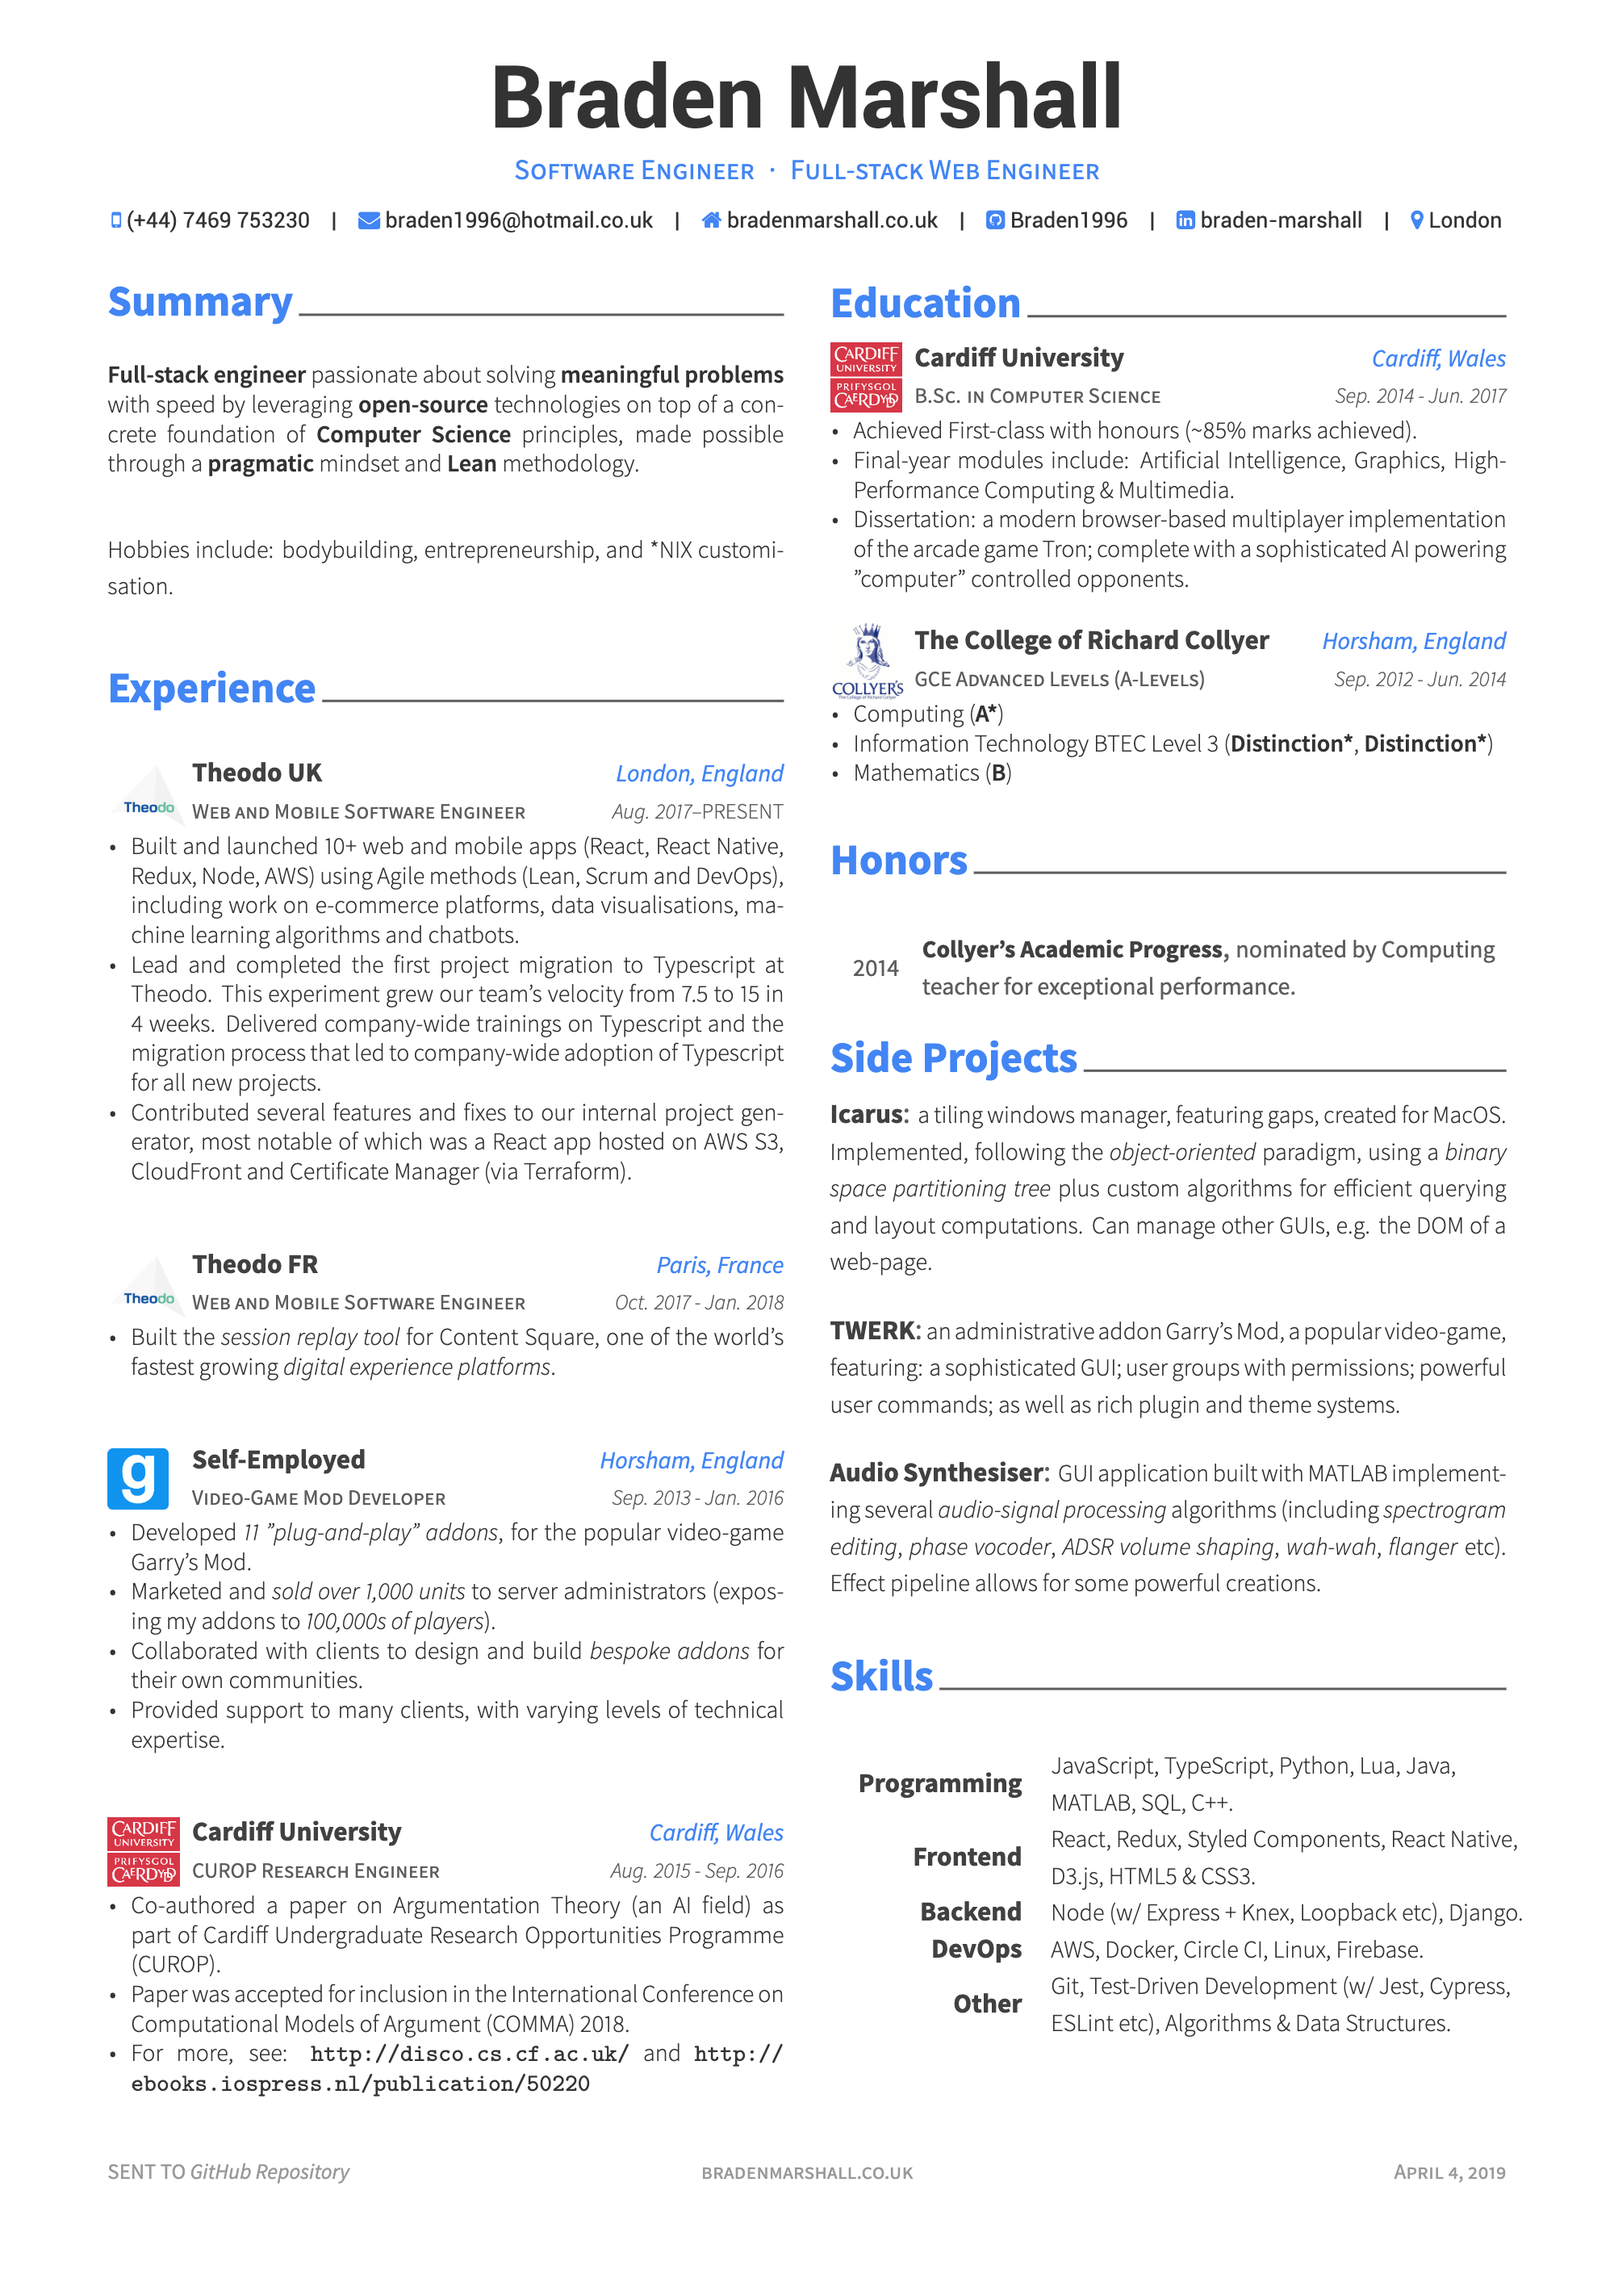
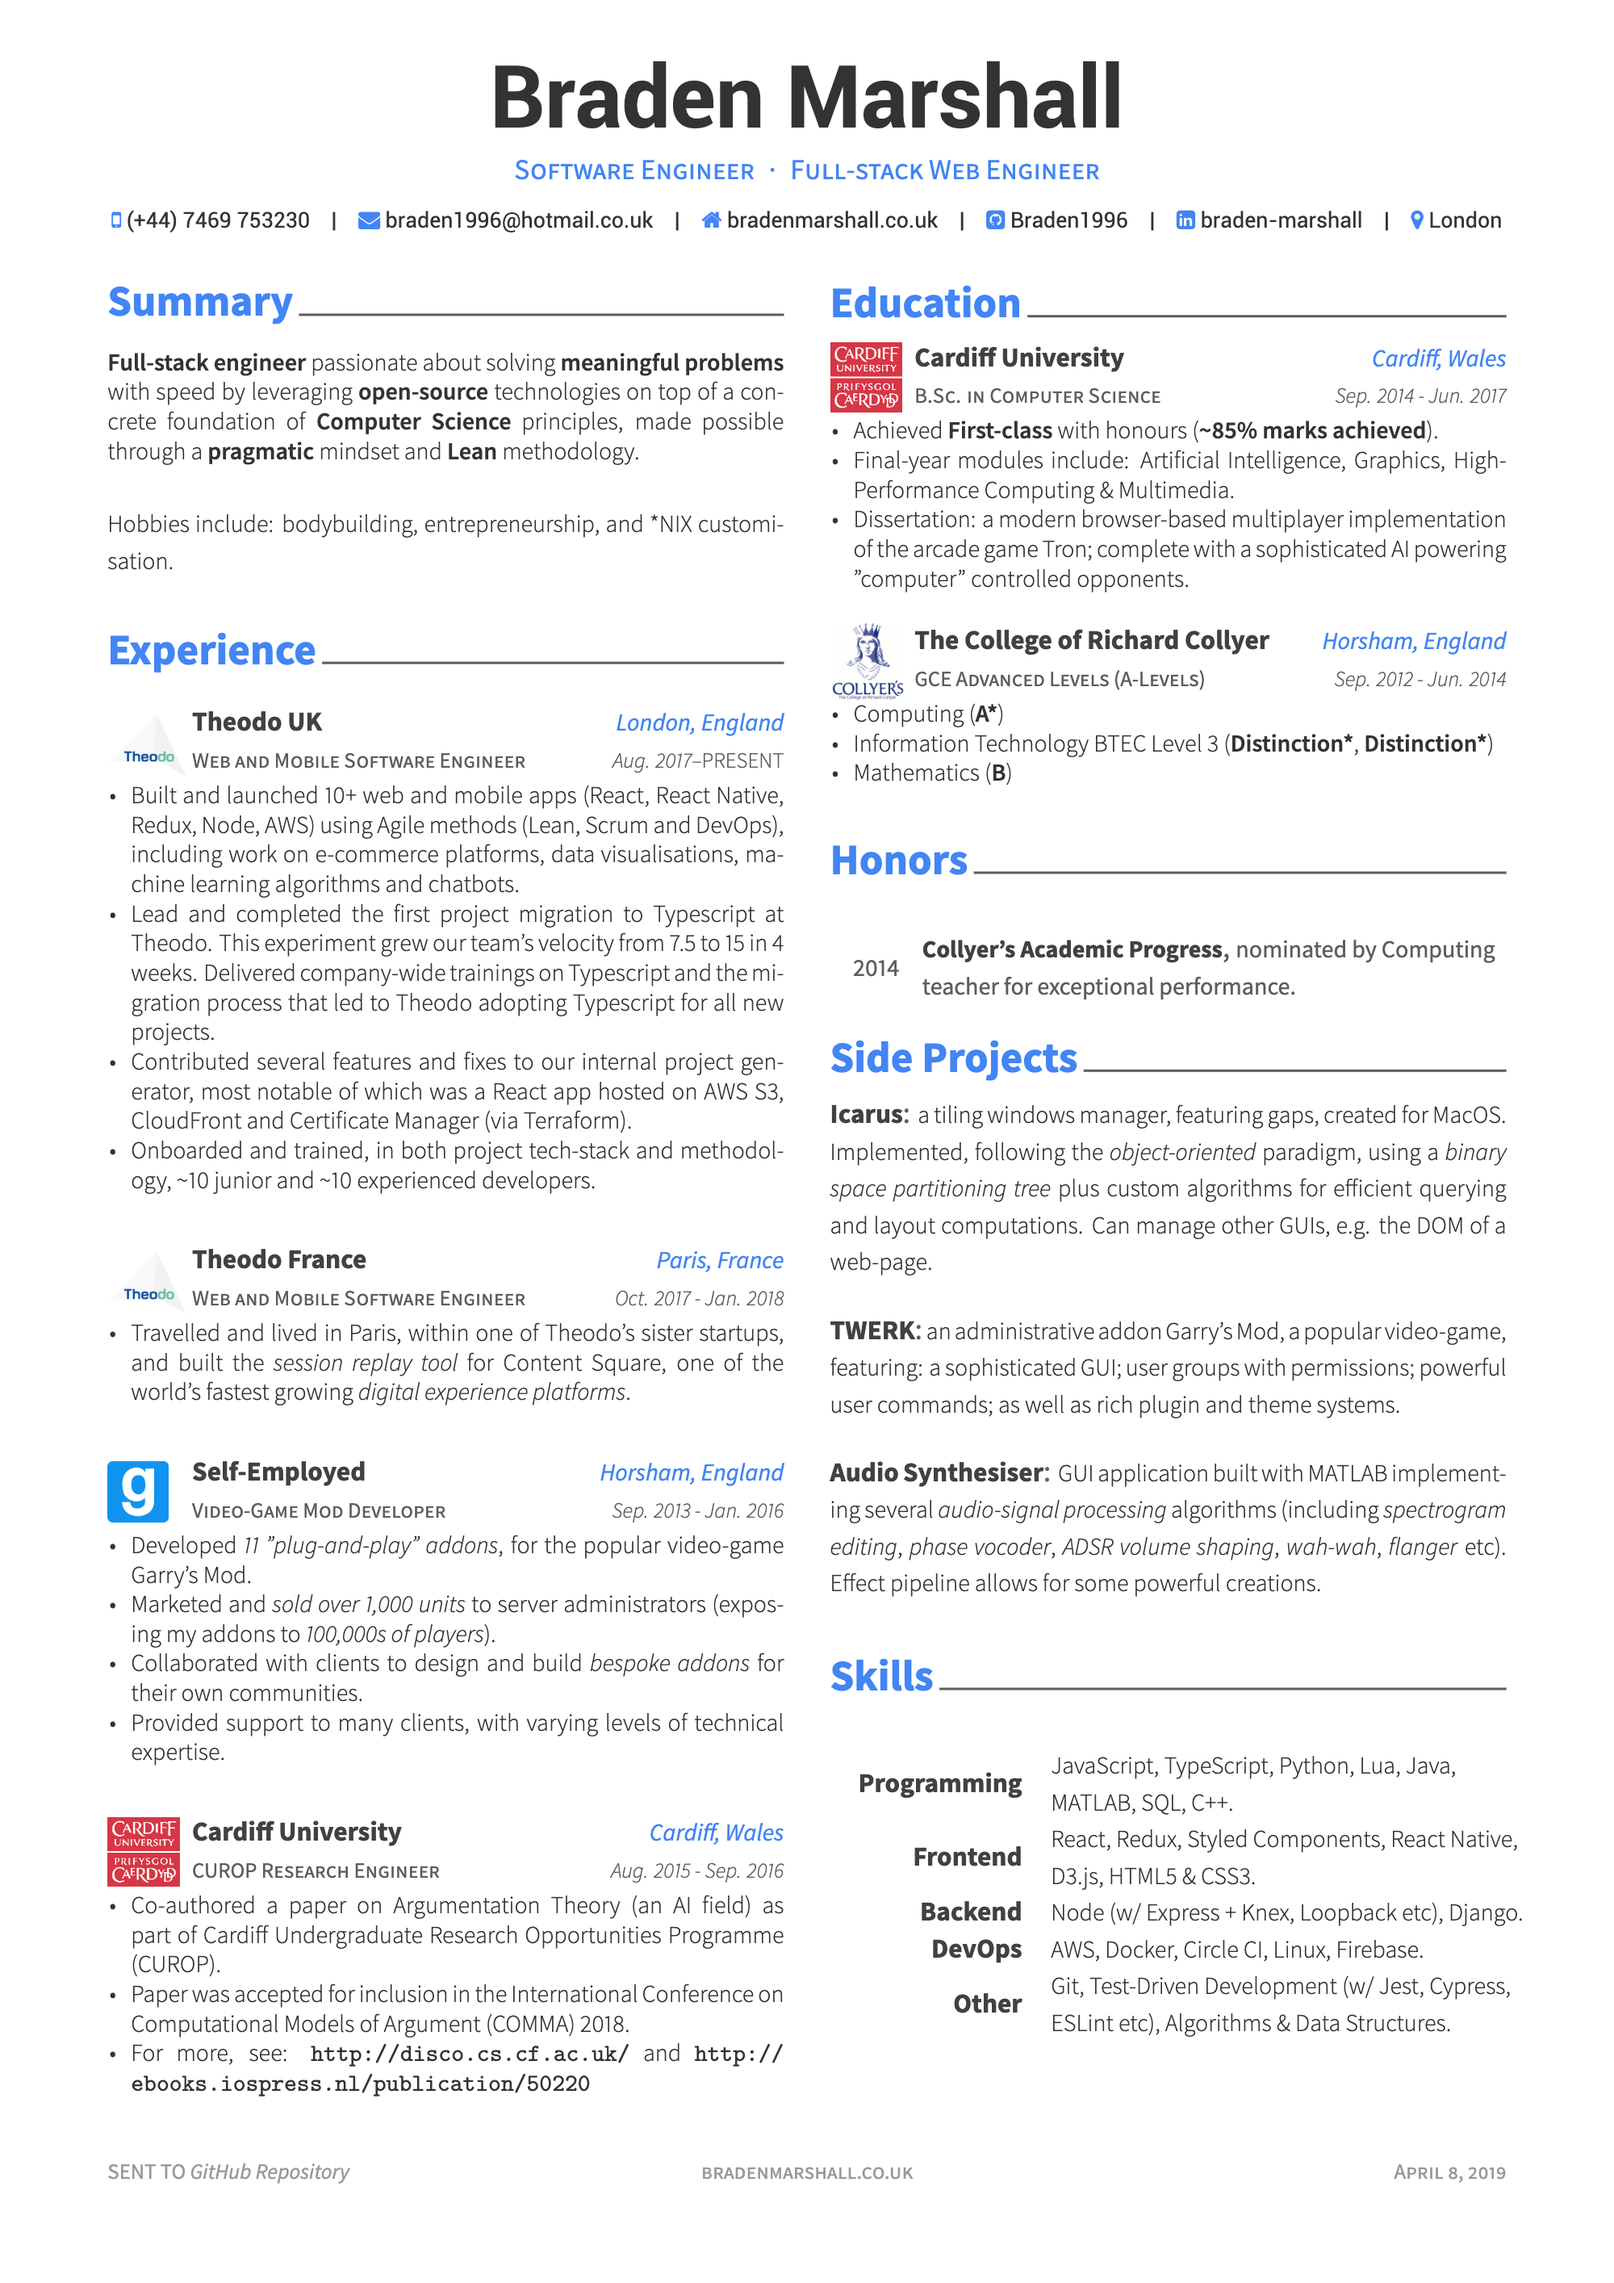
Add experience point about training and boldify degree grade.

diff --git a/resume/1_experience.tex b/resume/1_experience.tex
@@ -18,8 +18,9 @@
     {
       \begin{cvitems} % Description(s) of tasks/responsibilities
         \item Built and launched 10+ web and mobile apps (React, React Native, Redux, Node, AWS) using Agile methods (Lean, Scrum and DevOps), including work on e-commerce platforms, data visualisations, machine learning algorithms and chatbots.
-        \item Lead and completed the first project migration to Typescript at Theodo. This experiment grew our team's velocity from 7.5 to 15 in 4 weeks. Delivered company-wide trainings on Typescript and the migration process that led to company-wide adoption of Typescript for all new projects.
+        \item Lead and completed the first project migration to Typescript at Theodo. This experiment grew our team's velocity from 7.5 to 15 in 4 weeks. Delivered company-wide trainings on Typescript and the migration process that led to Theodo adopting Typescript for all new projects.
         \item Contributed several features and fixes to our internal project generator, most notable of which was a React app hosted on \href{https://aws.amazon.com/s3/}{AWS S3}, \href{https://aws.amazon.com/cloudfront/}{CloudFront} and \href{https://aws.amazon.com/certificate-manager/}{Certificate Manager} (via \href{https://www.terraform.io/}{Terraform}).
+        \item Onboarded and trained, in both project tech-stack and methodology, \textasciitilde{}10 junior and \textasciitilde{}10 experienced developers. 
       \end{cvitems}
     }
     {\multirow{2}{1.1cm}{\parbox{1\linewidth}{\includegraphics[scale=0.055]{logo/theodo.png}}}}
@@ -27,12 +28,12 @@
 %---------------------------------------------------------
   \cventry
     {Web and Mobile Software Engineer} % Job title
-    {\href{https://www.theodo.fr/}{Theodo FR}} % Organization
+    {\href{https://www.theodo.fr/}{Theodo France}} % Organization
     {Paris, France} % Location
     {Oct. 2017 - Jan. 2018} % Date(s)
     {
       \begin{cvitems} % Description(s) of tasks/responsibilities
-        \item Built the \textit{session replay tool} for \href{https://contentsquare.com/}{Content Square}, one of the world's fastest growing \textit{digital experience platforms}.
+        \item Travelled and lived in Paris, within one of Theodo's sister startups, and built the \textit{session replay tool} for \href{https://contentsquare.com/}{Content Square}, one of the world's fastest growing \textit{digital experience platforms}.
       \end{cvitems}
     }
     {\multirow{2}{1.1cm}{\parbox{1\linewidth}{\includegraphics[scale=0.055]{logo/theodo.png}}}}

diff --git a/resume/2_education.tex b/resume/2_education.tex
@@ -18,7 +18,7 @@
     {Sep. 2014 - Jun. 2017} % Date(s)
     {
       \begin{cvitems} % Description(s) bullet points
-        \item Achieved First-class with honours (\textasciitilde{}85\% marks achieved).
+        \item Achieved \textbf{First-class} with honours (\textbf{\textasciitilde{}85\% marks achieved}).
         \item Final-year modules include: Artificial Intelligence, Graphics, High-Performance Computing \& Multimedia.
         \item Dissertation: a modern browser-based multiplayer implementation of the arcade game Tron; complete with a sophisticated AI powering "computer" controlled opponents.
       \end{cvitems}
